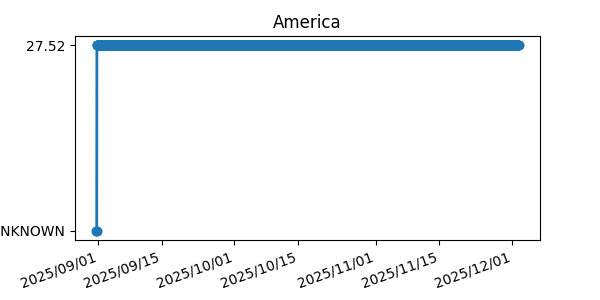
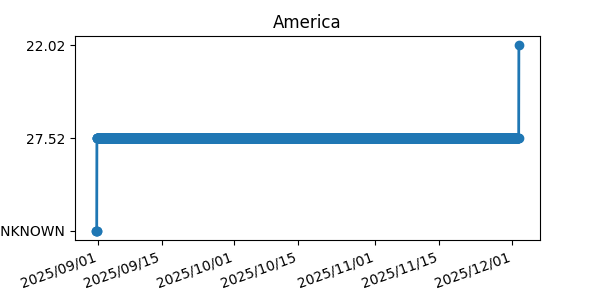
Auto commit from deploy script

Changed region(s): [[0.15, 0.12, 0.9, 0.48], [0.03, 0.45, 0.12, 0.48], [0.06, 0.12, 0.09, 0.18]]

diff --git a/README.md b/README.md
@@ -18,5 +18,5 @@ Poland:|               79.99     |(€ 18.35)| ![Graph](graphs/graphPoland.png) 
 | An error occurred checking for Slovakia | _ | _ |  
 | An error occurred checking for Austria | _ | _ |  
 | An error occurred checking for Switzerland | _ | _ |  
-America:|            $ 29.99     |(€ 27.52)| ![Graph](graphs/graphAmerica.png) |  
+America:|            $ 23.99     |(€ 22.02)| ![Graph](graphs/graphAmerica.png) |  
 | An error occurred checking for Japan | _ | _ |  
